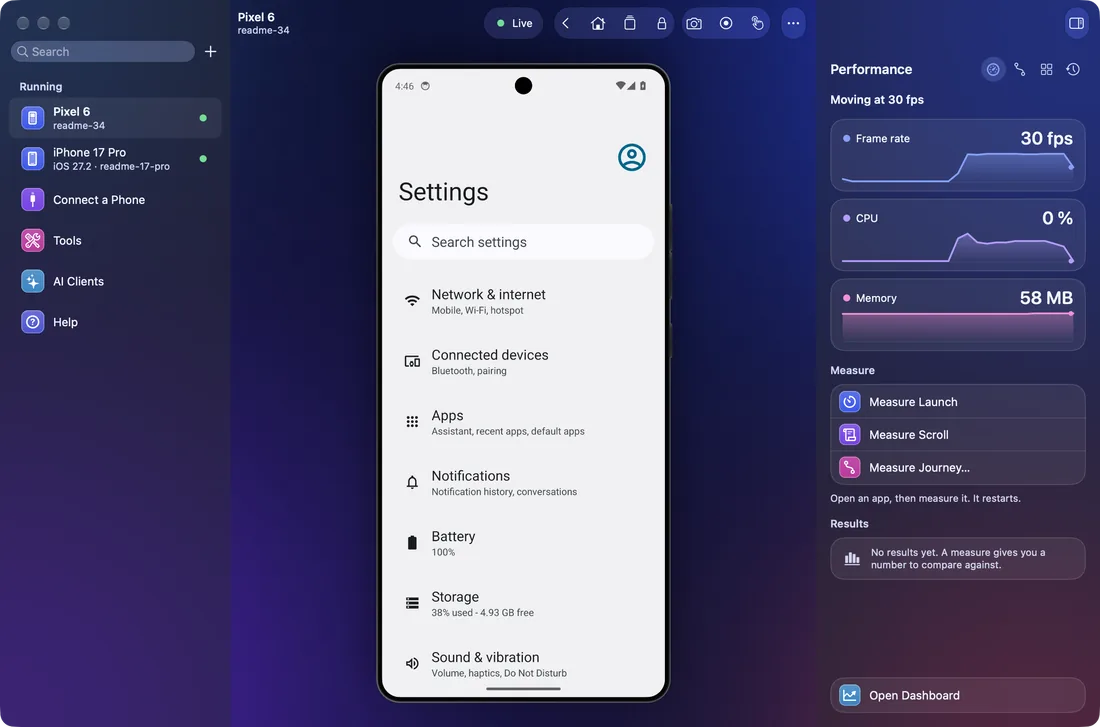
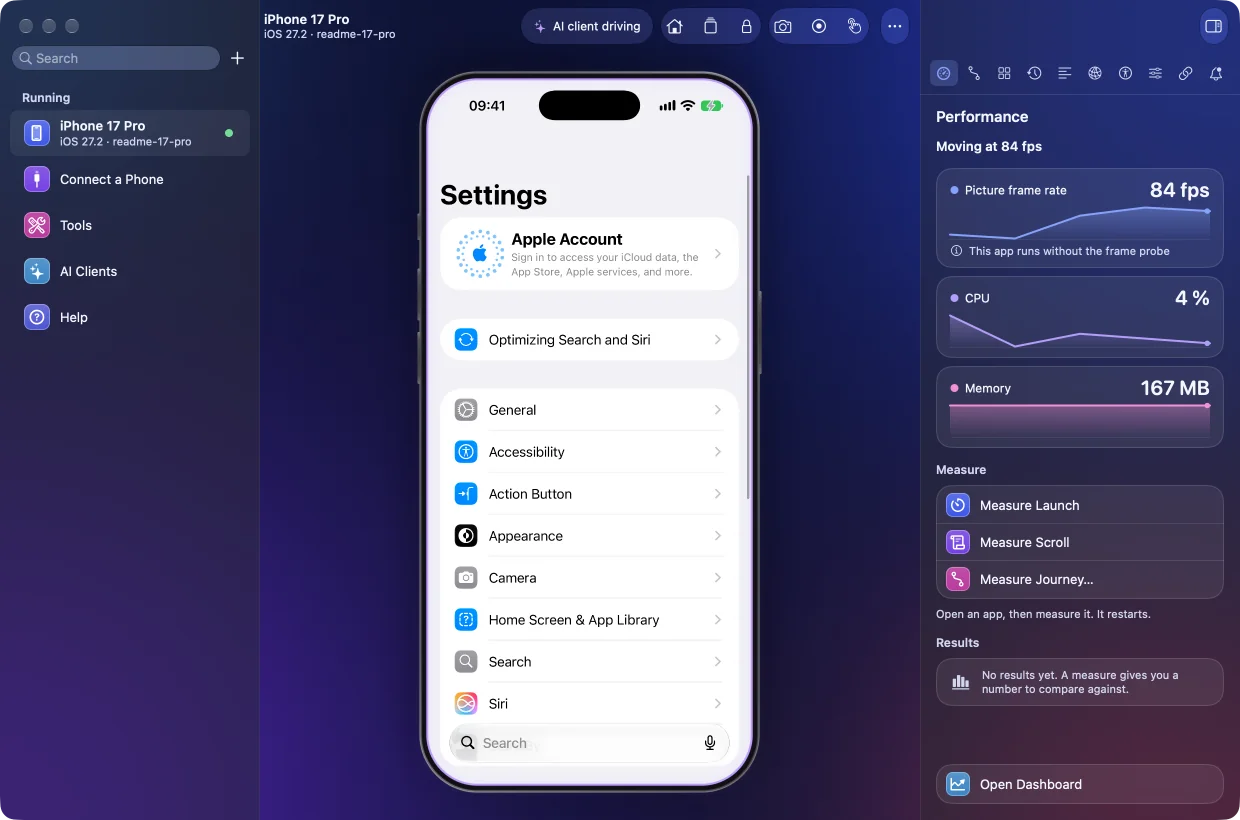
docs(images): the hub and a device's window pictured again from the app as it is, in English and Turkish, with a Turkish window for the Turkish README

diff --git a/README.tr.md b/README.tr.md
@@ -74,13 +74,13 @@ Her türün her cihazdaki durumu ve neyin nerede denendiği: [Push bildirimleri]
 
 ### Canlı pencere ve hub
 
-<img src="docs/images/hub.tr.webp" width="100%" alt="Karanlık görünümüyle hub: Ayarlar'da canlı bir Android emülatörü, listede yanında bir iPhone simülatörü; Performans paneli saniyede 59 kareyi, işlemciyi ve belleği okuyor">
+<img src="docs/images/hub.tr.webp" width="100%" alt="Karanlık görünümüyle hub: bir yapay zekâ istemcisi kaydırırken Ayarlar'da canlı bir iPhone simülatörü; Performans paneli görüntüyü saniyede 89 kare olarak, CPU'yu ve belleği okuyor">
 
 `appdyno hub`, bu Mac'teki bütün cihazları tek pencerede açar. Ajan bir cihazı kullanırken siz de fare ve klavyeyle kullanabilirsiniz. Performans paneli kareleri, CPU'yu ve belleği anında okur. Yapay Zekâ İstemcileri, bu Mac'teki her MCP istemcisini gerçek durumuyla gösterir ve appdyno'yu ona ekler. Telefon kabloyla bağlanır; `appdyno pair` ile bir kez eşleştirildikten sonra Wi-Fi ile de. Ayrıntılar: [Pencere ve hub](docs/reference/mirror.tr.md).
 
 <p>
-  <img src="docs/images/window.webp" width="49.5%" alt="Bir simülatörün kendi penceresi, açık görünümüyle; ana ekranda bir test uygulamasının appdyno ile gönderilmiş push'u">
-  <img src="docs/images/window-push.tr.webp" width="49.5%" alt="Bir simülatörün kendi penceresi, koyu görünümüyle; Bildirim paneli açık: uygulamanın kimliği, Uyarı türü ve nasıl gittiği, doldurulmuş başlık, metin ve veri">
+  <img src="docs/images/window.tr.webp" width="49.5%" alt="Bir simülatörün kendi penceresi, açık görünümüyle; ana ekranda bir test uygulamasının push'u">
+  <img src="docs/images/window-push.tr.webp" width="49.5%" alt="Bir simülatörün kendi penceresi, koyu görünümüyle; Bildirim paneli açık: uygulamanın kimliği, Uyarı türü ve ne gönderdiği, doldurulmuş başlık, metin ve veri">
 </p>
 
 <p align="center"><sub>Bir cihazın kendi penceresi, açık ve koyu görünümüyle. Bildirim paneli, bir ajanın yaptığı gibi <code>push</code> ile gönderir; bu cihazın kabul ettiği türlerle.</sub></p>

diff --git a/README.md b/README.md
@@ -74,13 +74,13 @@ Until APNs is set up, a real iPhone takes no push, and the answer says so. FCM's
 
 ### The live window and the hub
 
-<img src="docs/images/hub.webp" width="100%" alt="The hub in its dark look: an Android emulator live in Settings, an iPhone simulator beside it in the list, and the Performance pane reading 30 frames a second, CPU and memory">
+<img src="docs/images/hub.webp" width="100%" alt="The hub in its dark look: an iPhone simulator live in Settings while an AI client scrolls it, and the Performance pane reading the picture at 84 frames a second, CPU and memory">
 
 `appdyno hub` opens every device on this Mac in one window, driven by mouse and keyboard while an agent drives it too. Its Performance pane reads frames, CPU and memory as they happen. AI Clients shows each MCP client on this Mac as it truly stands, and adds appdyno to it. A phone joins by cable, or by Wi-Fi once paired with `appdyno pair`. See [The window and the hub](docs/reference/mirror.md).
 
 <p>
-  <img src="docs/images/window.webp" width="49.5%" alt="A simulator's own window in its light look, with a test app's push, sent through appdyno, on the home screen">
-  <img src="docs/images/window-push.webp" width="49.5%" alt="A simulator's own window in its dark look, with its Push pane open: the app's id, the type Alert and how it goes, and a title, a body and data filled in">
+  <img src="docs/images/window.webp" width="49.5%" alt="A simulator's own window in its light look, with a test app's push on the home screen">
+  <img src="docs/images/window-push.webp" width="49.5%" alt="A simulator's own window in its dark look, with its Push pane open: the app's id, the type Alert and what it sends, and a title, a body and data filled in">
 </p>
 
 <p align="center"><sub>A device's own window, light and dark. Its Push pane sends by <code>push</code>, as an agent does, with the types this device takes.</sub></p>

diff --git a/CHANGELOG.tr.md b/CHANGELOG.tr.md
@@ -4,6 +4,7 @@
 
 ## Yayımlanmamış
 
+- README'nin hub ve bir cihazın kendi penceresi resimleri, uygulamanın bugünkü haliyle, İngilizce ve Türkçe olarak, hareket halindeki bir iPhone simülatöründe, Mac'in yükü 8'in altındayken yeniden çekildi: hub'ın Türkçe düğmesi Gösterge Panelini Aç der, kare hızı görüntünün kendisidir ve Türkçe README Türkçe bir pencere gösterir.
 - Türkçe sayfalar bir şey için sayfalar boyunca tek bir sözcük kullanır: bir komutun seçeneği seçenek, bir işlem işlem, az önce yapılan bir okuma yeni, saniye s.
 - Ölçülen sayıları yazdıran ya da onlara dayanan suite'lerin, betiklerin ve kaynakların yorumları, onları artık tutan sayfayı, perf-evidence.md'yi ya da mirror-internals.md'yi adlandırır.
 - Türkçe akışlar rehberi ölçülen yolculuğu kapının denetlediği bir yolculuk olarak adlandırır; başlığı onun kapıdan geçtiğini söylüyordu.

diff --git a/CHANGELOG.md b/CHANGELOG.md
@@ -4,6 +4,7 @@
 
 ## Unreleased
 
+- The README's pictures of the hub and of a device's own window are taken again from the app as it is, in English and in Turkish, on an iPhone simulator while it moves, at a Mac load under 8: the hub's Turkish button reads Gösterge Panelini Aç and its frame rate is the picture's own, and the Turkish README shows a Turkish window.
 - The Turkish pages say one word for one thing across pages: a command's flag is a seçenek, an action an işlem, a read made just now a yeni one, and seconds s.
 - The comments of the suites, scripts and sources that print or rest on measured numbers name the page that now holds them, perf-evidence.md or mirror-internals.md.
 - The Turkish flows guide calls a measured journey one the gate checks, where its heading said it passed the gate.
